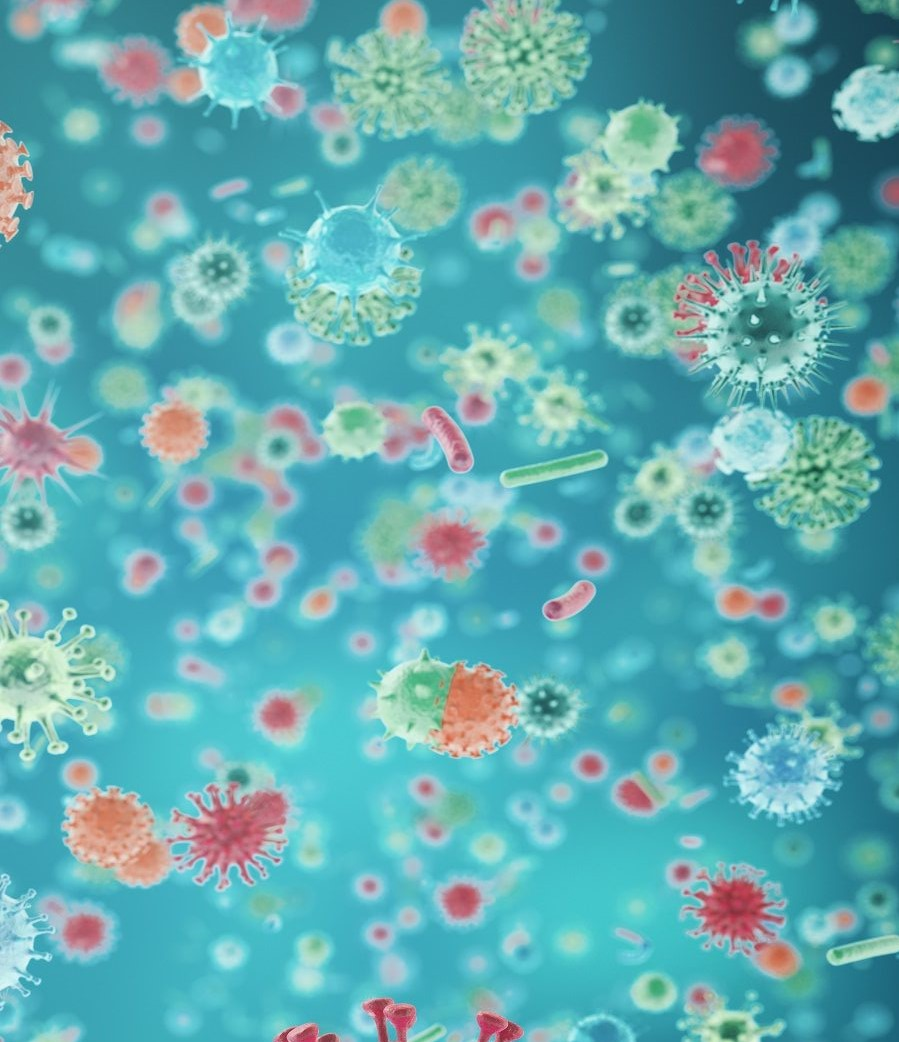
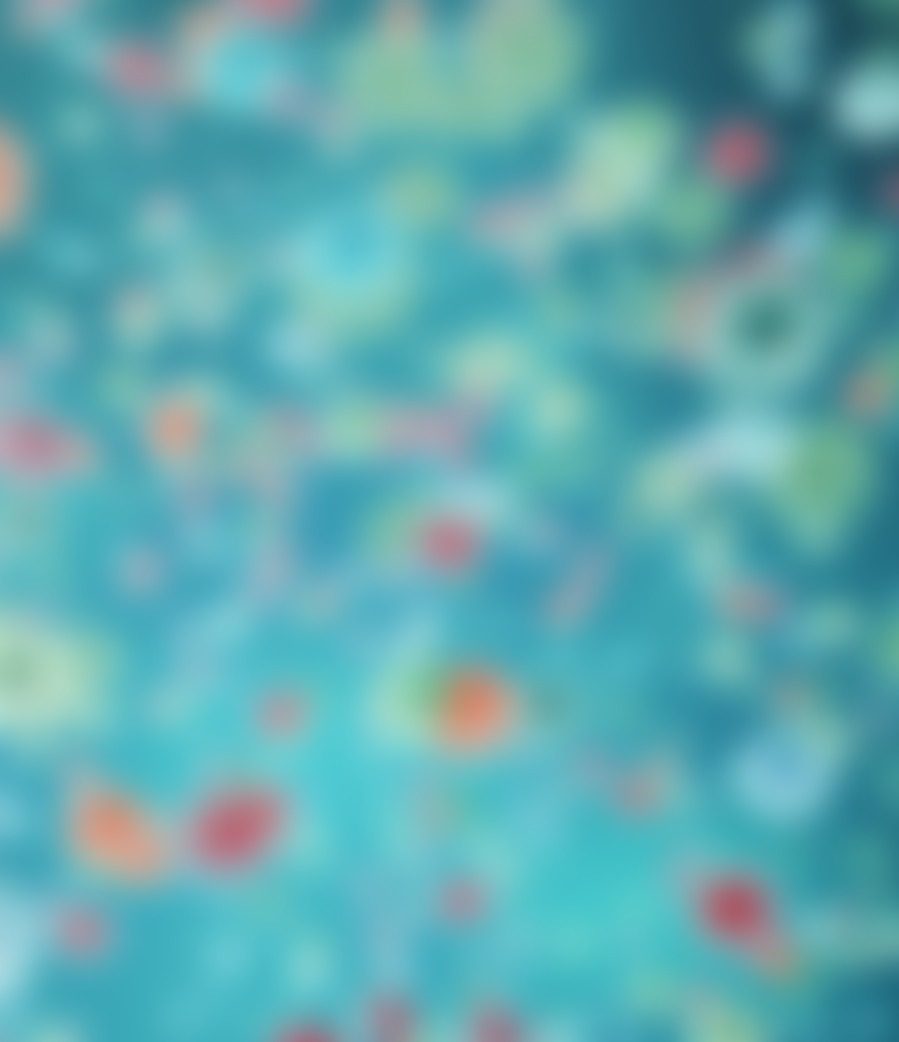
made bg pic blur

diff --git a/index.html b/index.html
@@ -25,7 +25,7 @@
     <title>FIT3179 Assignment 2 Visualisation</title>
 </head>
 
-<body style="background-image: url('data/virus_bg.jpg'); background-repeat: no-repeat; background-size: cover; background-position: top; filter: blur(8px); -webkit-filter: blur(8px);">
+<body style="background-image: url('data/virus_bg.jpg'); background-repeat: no-repeat; background-size: cover; background-position: top">
     <div class="page">
             
         <!-- pure grid group -->
